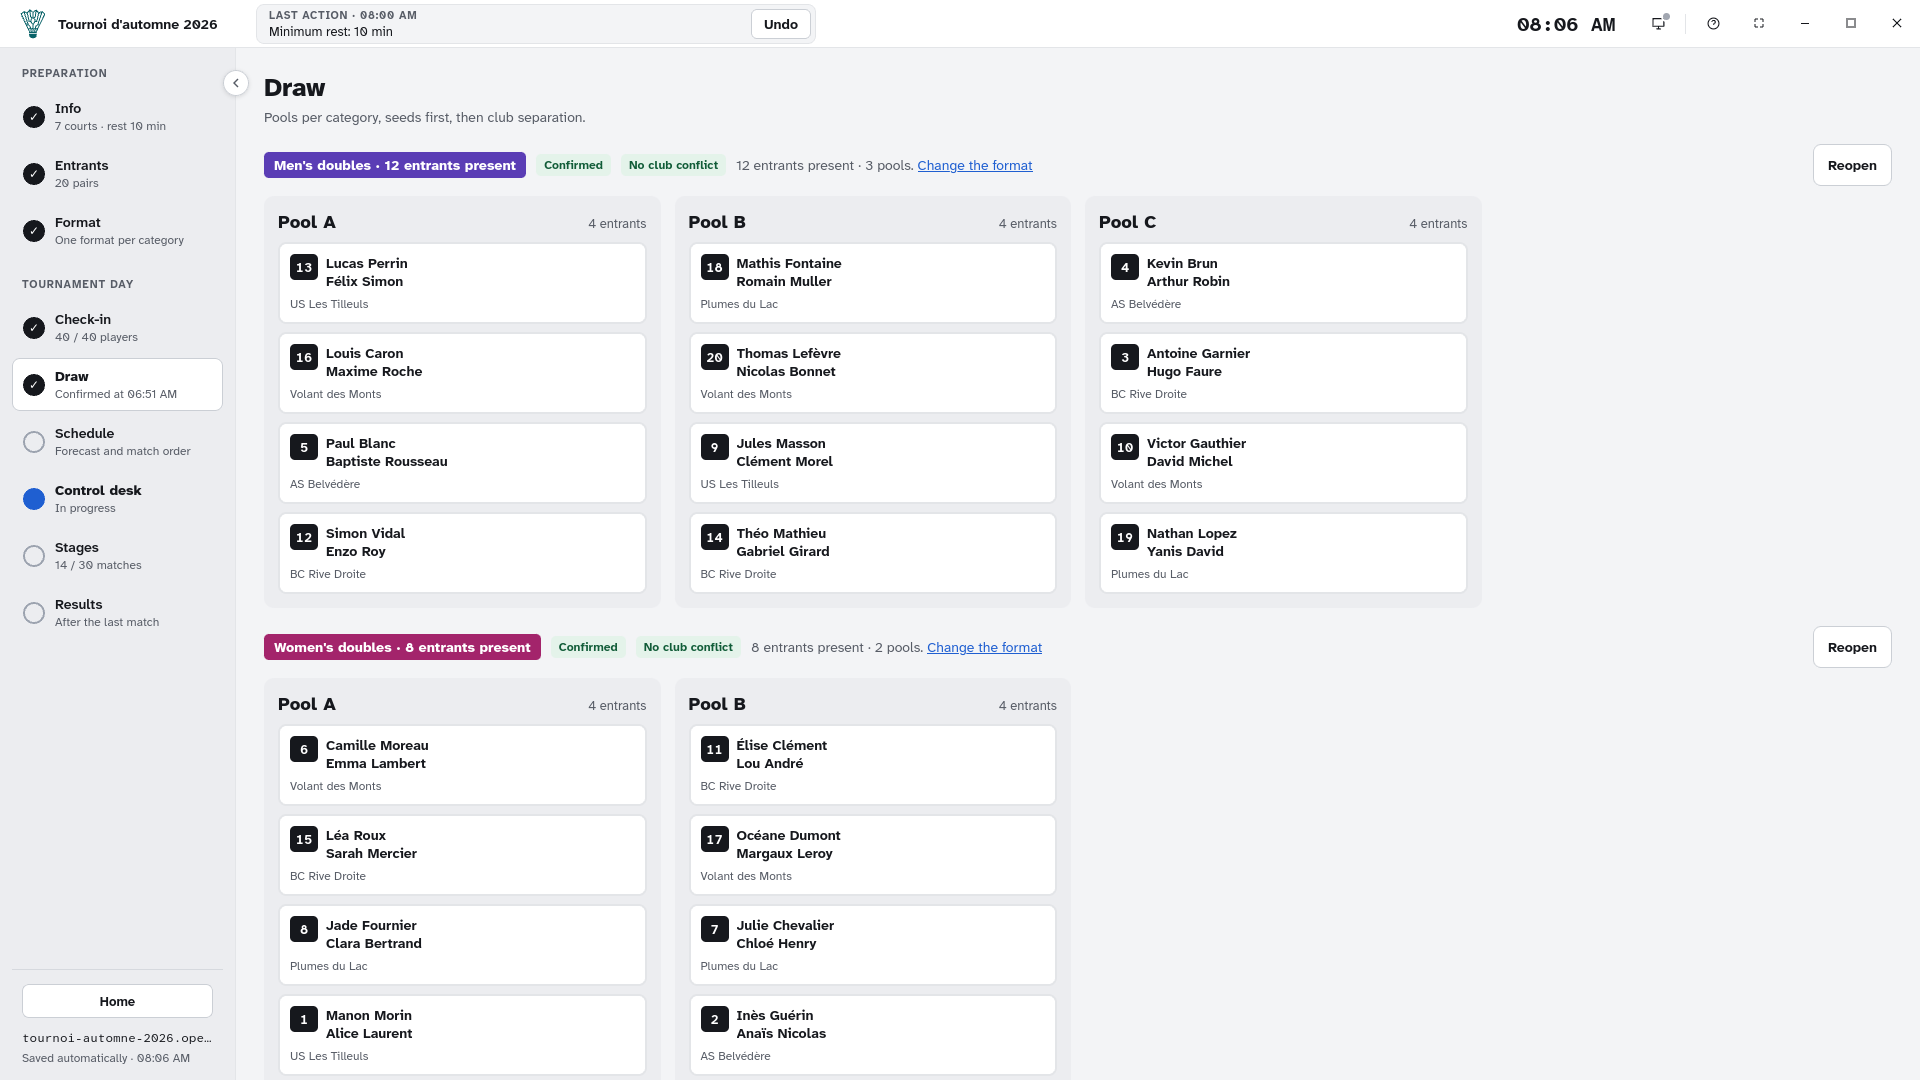
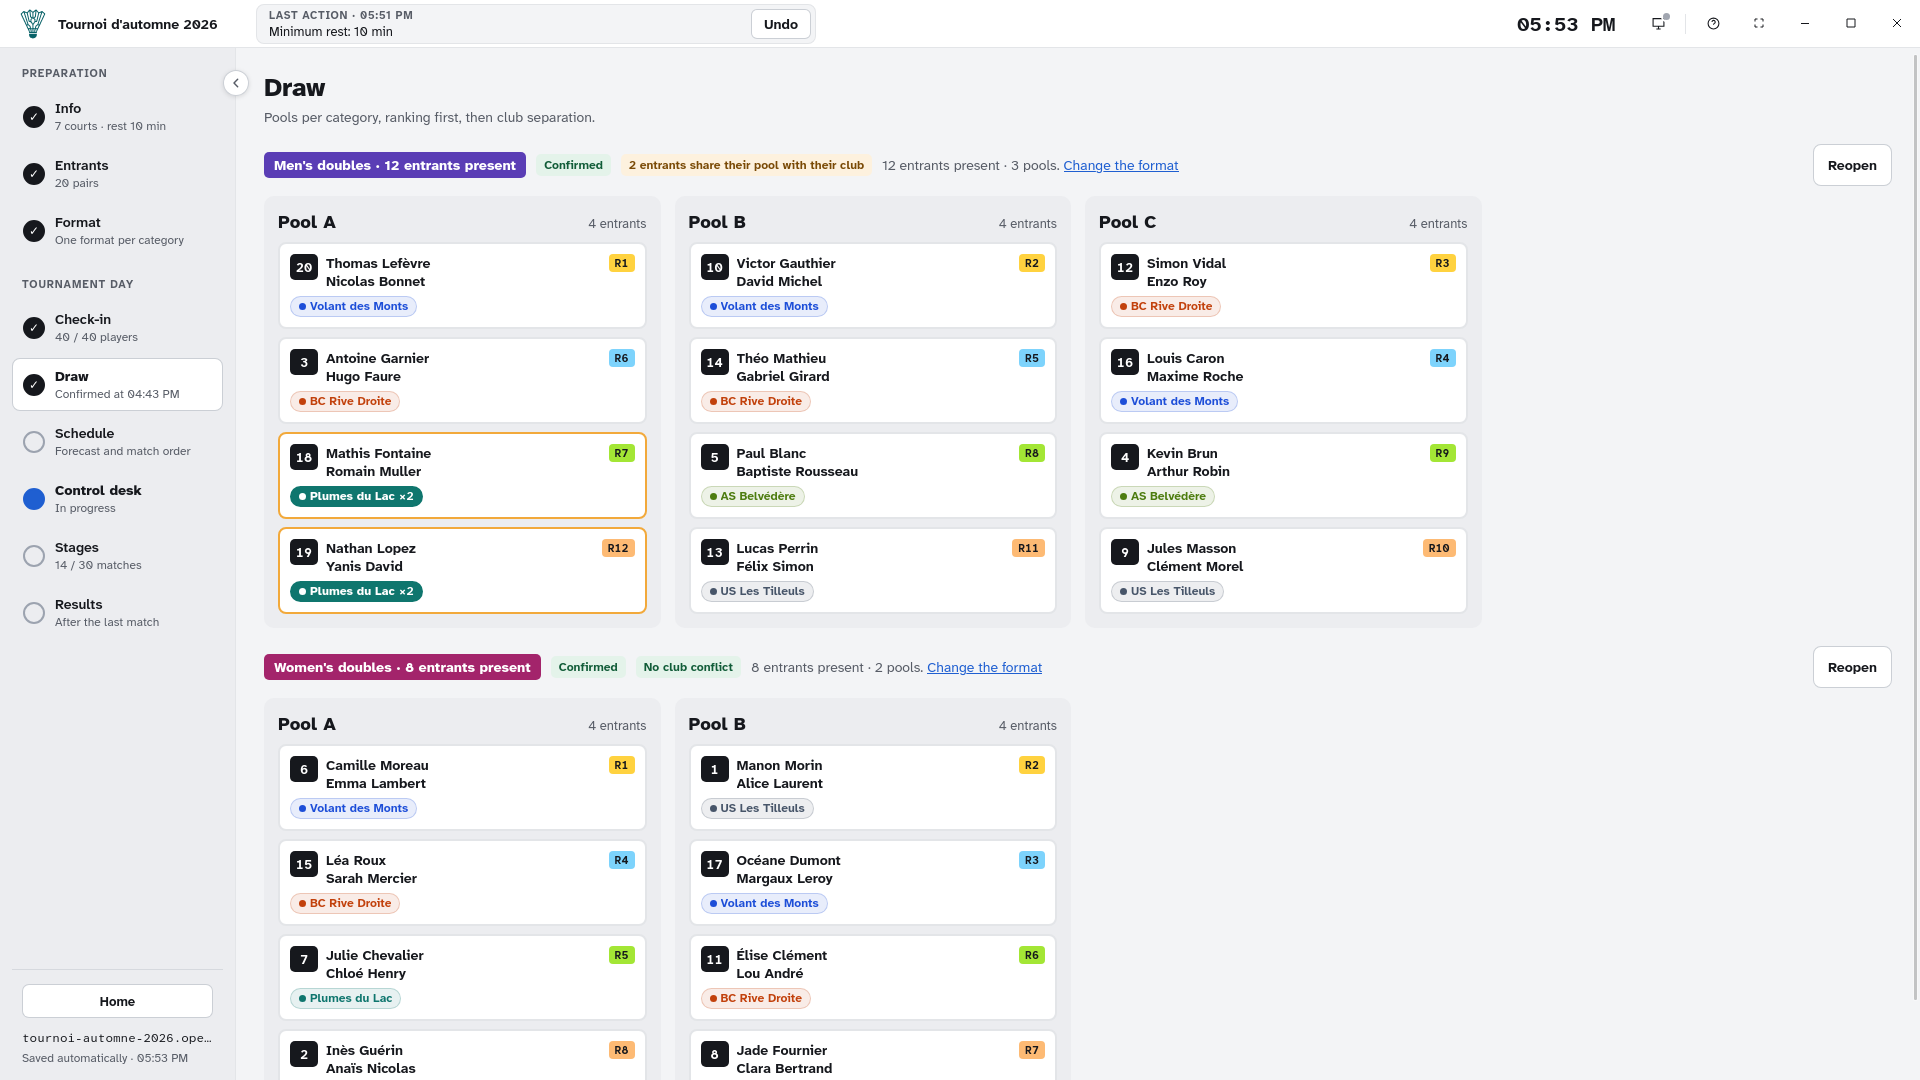
feat: update the site for desktop 1.3.0
The 1.3.0 changelog: club colors and ranking levels at the draw, seeds
renamed to the ranking, pools kept in ranking order. Guide step 5 and
the FAQ speak of the ranking and its levels; new draw screenshots show
the rank chips colored by level and a club pair standing out in pool A.

diff --git a/src/pages/llms.txt.ts b/src/pages/llms.txt.ts
@@ -41,7 +41,7 @@ export const GET: APIRoute = async () => {
   const en = await section('en');
   const body = `# OpenShuttle
 
-> OpenShuttle is a free and open source (AGPL-3.0) desktop app to run non-sanctioned badminton club tournaments from start to finish, fully offline on one computer: entrants (import from any CSV file, such as a HelloAsso export, with column mapping and preview), formats made of pools and brackets (consolation, full placement), check-in with bib numbers, draw with seeds, schedule, control desk with match calls and scores, a display screen for the hall, corrections with undo and history, and full standings with CSV export. It runs on Windows, macOS and Linux, in English and French, with no account, no cloud and no data collection.
+> OpenShuttle is a free and open source (AGPL-3.0) desktop app to run non-sanctioned badminton club tournaments from start to finish, fully offline on one computer: entrants (import from any CSV file, such as a HelloAsso export, with column mapping and preview), formats made of pools and brackets (consolation, full placement), check-in with bib numbers, draw with a ranking and color-coded clubs, schedule, control desk with match calls and scores, a display screen for the hall, corrections with undo and history, and full standings with CSV export. It runs on Windows, macOS and Linux, in English and French, with no account, no cloud and no data collection.
 
 The website is in French (reference language, at the root) and English (under /en/). Every page has a Markdown version at the same path followed by \`index.md\`. Download links (/telecharger/<platform> in French, /download/<platform> in English, platforms: windows, windows-portable, macos, linux-deb, linux-tar, checksums) always redirect to the latest release. The full guide and FAQ in both languages are in ${siteUrl}/llms-full.txt.
 

diff --git a/src/data/faq.ts b/src/data/faq.ts
@@ -62,7 +62,7 @@ export const faq: Record<Locale, FaqItem[]> = {
     {
       question: 'OpenShuttle gère-t-il les classements des joueurs (P10, NC…) ?',
       answer:
-        '<p>Non, il n’y a pas de niveau ni de classement fédéral. Pour équilibrer les poules, vous désignez vos têtes de série et les rangez dans l’ordre au moment du tirage.</p>',
+        '<p>Non, il n’y a pas de classement fédéral. Pour équilibrer les poules, vous classez vous-même les équipes au moment du tirage : elles sont réparties en serpentin, et chaque niveau (avec 5 poules, les 5 premières, puis les 5 suivantes…) a sa couleur pour vérifier la répartition.</p>',
     },
     {
       question: 'Comment importer la liste des inscrits ?',
@@ -146,7 +146,7 @@ export const faq: Record<Locale, FaqItem[]> = {
     {
       question: 'Does OpenShuttle handle player rankings or levels?',
       answer:
-        '<p>No, there are no levels or federation rankings. To balance the pools, you pick your seeds and put them in order at the draw.</p>',
+        '<p>No, there are no federation rankings. To balance the pools, you rank the teams yourself at the draw: they are spread in a snake, and each level (with 5 pools, the first 5, then the next 5…) has its color so you can check the spread.</p>',
     },
     {
       question: 'How do I import the list of entrants?',

diff --git a/src/data/home.ts b/src/data/home.ts
@@ -39,7 +39,7 @@ export const home = {
         title: 'Faire jouer',
         items: [
           'Pointage en un clic, dossards attribués à l’arrivée',
-          'Tirage avec têtes de série, clubs séparés dans les poules',
+          'Tirage par classement, clubs séparés et repérés par couleur',
           'Échéancier, appels, scores, temps de repos',
         ],
       },
@@ -130,7 +130,7 @@ export const home = {
         title: 'Play',
         items: [
           'One-click check-in, bib numbers handed out on arrival',
-          'Draw with seeds, club mates kept apart in pools',
+          'Ranked draw, club mates kept apart and color-coded',
           'Schedule, match calls, scores, rest times',
         ],
       },

diff --git a/src/content/guide/fr/05-tirage.md b/src/content/guide/fr/05-tirage.md
@@ -1,18 +1,23 @@
 ---
 step: 5
-title: Faire le tirage avec les têtes de série
-summary: Poules tirées parmi les présents, têtes de série en serpentin, clubs séparés.
+title: Faire le tirage avec un classement
+summary: Poules tirées parmi les présents, équipes classées en serpentin, niveaux et clubs repérés par couleur.
 images:
   - src: ../../../assets/guide/05-draw-fr.png
-    alt: "L’écran Tirage validé : les poules A, B et C du double homme avec les dossards et les clubs des paires"
-    caption: "Les poules tirées, par catégorie"
+    alt: "L’écran Tirage validé : les poules A, B et C du double homme ; chaque paire porte son dossard, son rang coloré par niveau et le badge de son club, et deux paires du même club ressortent dans la poule A"
+    caption: "Une couleur par niveau de classement, une couleur par club"
 ---
 
 Dans **Tirage**, chaque catégorie a sa section. Seuls les participants présents (tous leurs joueurs pointés) sont tirés.
 
-1. **Classez vos têtes de série** : ajoutez-les avec **Tête de série**, puis rangez-les dans l'ordre par glisser-déposer ou avec les flèches. OpenShuttle ne gère pas de classement fédéral : c'est vous qui décidez qui sont les favoris.
-2. Cliquez sur **Tirer les poules**. Les têtes de série sont placées en serpentin (A, B, C, C, B, A…), les autres au hasard, chacun dans la poule où son club est le moins représenté.
-3. **Vérifiez** : les badges signalent deux joueurs du même club dans une poule ou une poule de taille différente. Ce sont des avertissements, pas des blocages. Ajustez à la main par glisser-déposer, ou **Relancez le tirage**.
+1. **Classez les équipes** : ajoutez-les au **Classement** avec **Classer**, puis rangez-les dans l'ordre par glisser-déposer ou avec les flèches. OpenShuttle ne gère pas de classement fédéral : c'est vous qui décidez qui sont les favoris. Classez quelques équipes ou toutes.
+2. Cliquez sur **Tirer les poules**. Les équipes classées sont placées en serpentin (A, B, C, C, B, A…), les autres au hasard, chacune dans la poule où son club est le moins représenté. Si vous classez toutes les équipes, le serpentin décide seul : vérifiez les clubs.
+3. **Vérifiez** :
+   - chaque équipe classée porte son rang (C1, C2…), coloré par **niveau** : avec 3 poules, les 3 premières forment le niveau 1, les 3 suivantes le niveau 2, et ainsi de suite. Un tirage équilibré montre une équipe de chaque couleur par poule ;
+   - chaque club a sa couleur : son badge reste pâle quand le club est seul dans sa poule, et ressort en plein, avec « ×2 », quand deux équipes du même club s'y retrouvent ;
+   - une poule de taille différente est signalée.
+
+   Ce sont des avertissements, pas des blocages. Ajustez à la main par glisser-déposer : l'équipe déplacée prend sa place dans la poule selon son classement. Ou **Relancez le tirage**.
 4. Cliquez sur **Valider le tirage**. Les matchs de poules sont alors générés.
 
 > Un retardataire pointé après le tirage apparaît à part : glissez-le dans une poule.

diff --git a/src/content/guide/en/05-draw.md b/src/content/guide/en/05-draw.md
@@ -1,18 +1,23 @@
 ---
 step: 5
-title: Run the draw with seeds
-summary: Pools drawn from present entrants, seeds placed in a snake, club mates kept apart.
+title: Run the draw with a ranking
+summary: Pools drawn from present entrants, ranked teams placed in a snake, levels and clubs color-coded.
 images:
   - src: ../../../assets/guide/05-draw-en.png
-    alt: "The confirmed Draw screen: men’s doubles pools A, B and C with the bib numbers and clubs of the pairs"
-    caption: "The drawn pools, per category"
+    alt: "The confirmed Draw screen: men’s doubles pools A, B and C; each pair shows its bib number, its rank colored by level and its club badge, and two pairs of the same club stand out in pool A"
+    caption: "One color per ranking level, one color per club"
 ---
 
 In **Draw**, each category has its own section. Only present entrants (all their players checked in) are drawn.
 
-1. **Rank your seeds**: add them with **Seed**, then put them in order by drag and drop or with the arrows. OpenShuttle has no federation ranking: you decide who the favourites are.
-2. Click **Draw the pools**. Seeds are placed in a snake (A, B, C, C, B, A…), the others at random, each into the pool where their club has the fewest players.
-3. **Check**: badges flag two players from the same club in a pool, or a pool of a different size. These are warnings, not blocks. Adjust by hand with drag and drop, or draw again.
+1. **Rank the teams**: add them to the **Ranking** with **Rank**, then put them in order by drag and drop or with the arrows. OpenShuttle has no federation ranking: you decide who the favourites are. Rank a few teams or all of them.
+2. Click **Draw the pools**. Ranked teams are placed in a snake (A, B, C, C, B, A…), the others at random, each into the pool where their club has the fewest players. If you rank every team, the snake alone decides: check the clubs.
+3. **Check**:
+   - each ranked team shows its rank (R1, R2…), colored by **level**: with 3 pools, the first 3 make level 1, the next 3 level 2, and so on. A balanced draw shows one team of each color per pool;
+   - each club has its color: its badge stays pale when the club is alone in its pool, and turns solid, with "×2", when two teams of the same club meet there;
+   - a pool of a different size is flagged.
+
+   These are warnings, not blocks. Adjust by hand with drag and drop: the moved team takes its place in the pool by its ranking. Or draw again.
 4. Click **Confirm the draw**. The pool matches are then generated.
 
 > A latecomer checked in after the draw shows up apart: drag them into a pool.

diff --git a/src/content/pages/en/changelog.md b/src/content/pages/en/changelog.md
@@ -7,6 +7,15 @@ lead: "What changes in each version of the app, from the latest to the oldest. T
 updated: 2026-11-04
 ---
 
+## Version 1.3.0 · November 4, 2026
+
+- **New:** at the draw, each club has its color. A club alone in its pool stays pale; two teams of the same club in a pool stand out, with "×2".
+- **New:** one color per ranking level. With 5 pools, the first 5 teams make level 1, the next 5 level 2…: you see at a glance whether each pool has one team of each level.
+- **Improved:** "seeds" become the "ranking": rank a few teams or all of them.
+- **Improved:** a pool stays in ranking order, even when you move a team into it by hand.
+
+[Technical details of version 1.3.0 on GitHub](https://github.com/OpenShuttle/openshuttle-app/releases/tag/desktop-v1.3.0)
+
 ## Version 1.2.0 · November 4, 2026
 
 - **New:** in doubles, a player can register alone and wait for a partner. On the day, pair them with another player on their own or add a partner on the spot; a pair can also be split as long as it has not played.
